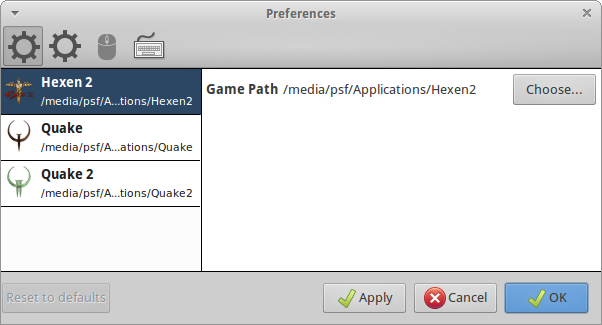
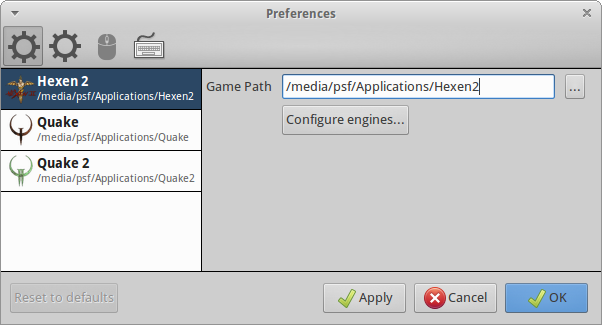
Add documentation for compiling and launching.

diff --git a/app/resources/documentation/help/shortcuts.js b/app/resources/documentation/help/shortcuts.js
@@ -584,7 +584,8 @@ menu["Menu/File/New"] = { path: ["File", "New"], shortcut: { key:78, modifiers: 
 menu["Menu/File/Open..."] = { path: ["File", "Open..."], shortcut: { key:79, modifiers: [308] } };
 menu["Menu/File/Save"] = { path: ["File", "Save"], shortcut: { key:83, modifiers: [308] } };
 menu["Menu/File/Save as..."] = { path: ["File", "Save as..."], shortcut: { key:83, modifiers: [306, 308] } };
-menu["Menu/File/Load Point File"] = { path: ["File", "Load Point File"], shortcut: { key:0, modifiers: [] } };
+menu["Menu/File/Export/Wavefront OBJ..."] = { path: ["File", "Export", "Wavefront OBJ..."], shortcut: { key:0, modifiers: [] } };
+menu["Menu/File/Load Point File..."] = { path: ["File", "Load Point File..."], shortcut: { key:0, modifiers: [] } };
 menu["Menu/File/Unload Point File"] = { path: ["File", "Unload Point File"], shortcut: { key:0, modifiers: [] } };
 menu["Menu/File/Close"] = { path: ["File", "Close"], shortcut: { key:87, modifiers: [308] } };
 menu["Menu/File/About TrenchBroom"] = { path: ["File", "About TrenchBroom"], shortcut: { key:0, modifiers: [] } };
@@ -616,7 +617,8 @@ menu["Menu/Edit/Tools/Vertex Tool"] = { path: ["Edit", "Tools", "Vertex Tool"], 
 menu["Menu/Edit/CSG/Convex Merge"] = { path: ["Edit", "CSG", "Convex Merge"], shortcut: { key:43, modifiers: [308] } };
 menu["Menu/Edit/CSG/Subtract"] = { path: ["Edit", "CSG", "Subtract"], shortcut: { key:45, modifiers: [308] } };
 menu["Menu/Edit/CSG/Intersect"] = { path: ["Edit", "CSG", "Intersect"], shortcut: { key:35, modifiers: [308] } };
-menu["Menu/Edit/Snap Vertices"] = { path: ["Edit", "Snap Vertices"], shortcut: { key:86, modifiers: [306, 308] } };
+menu["Menu/Edit/Snap Vertices to Integer"] = { path: ["Edit", "Snap Vertices to Integer"], shortcut: { key:86, modifiers: [306, 308] } };
+menu["Menu/Edit/Snap Vertices to Grid"] = { path: ["Edit", "Snap Vertices to Grid"], shortcut: { key:86, modifiers: [307, 306, 308] } };
 menu["Menu/Edit/Texture Lock"] = { path: ["Edit", "Texture Lock"], shortcut: { key:0, modifiers: [] } };
 menu["Menu/Edit/Replace Texture..."] = { path: ["Edit", "Replace Texture..."], shortcut: { key:0, modifiers: [] } };
 menu["Menu/View/Grid/Show Grid"] = { path: ["View", "Grid", "Show Grid"], shortcut: { key:48, modifiers: [] } };
@@ -645,9 +647,12 @@ menu["Menu/View/Switch to Face Inspector"] = { path: ["View", "Switch to Face In
 menu["Menu/View/Toggle Info Panel"] = { path: ["View", "Toggle Info Panel"], shortcut: { key:52, modifiers: [308] } };
 menu["Menu/View/Toggle Inspector"] = { path: ["View", "Toggle Inspector"], shortcut: { key:53, modifiers: [308] } };
 menu["Menu/View/Maximize Current View"] = { path: ["View", "Maximize Current View"], shortcut: { key:32, modifiers: [308] } };
+menu["Menu/Run/Compile..."] = { path: ["Run", "Compile..."], shortcut: { key:0, modifiers: [] } };
+menu["Menu/Run/Launch..."] = { path: ["Run", "Launch..."], shortcut: { key:0, modifiers: [] } };
 menu["Menu/Debug/Print Vertices"] = { path: ["Debug", "Print Vertices"], shortcut: { key:0, modifiers: [] } };
 menu["Menu/Debug/Create Brush..."] = { path: ["Debug", "Create Brush..."], shortcut: { key:0, modifiers: [] } };
 menu["Menu/Debug/Copy Javascript Shortcut Map"] = { path: ["Debug", "Copy Javascript Shortcut Map"], shortcut: { key:0, modifiers: [] } };
+menu["Menu/Debug/Crash..."] = { path: ["Debug", "Crash..."], shortcut: { key:0, modifiers: [] } };
 menu["Menu/Help/TrenchBroom Help"] = { path: ["Help", "TrenchBroom Help"], shortcut: { key:0, modifiers: [] } };
 var actions = {};
 actions["Controls/Map view/Create brush"] = { key:13, modifiers: [] };
@@ -667,10 +672,6 @@ actions["Controls/Map view/Move rotation center right"] = { key:316, modifiers: 
 actions["Controls/Map view/Move rotation center forward; Move rotation center up"] = { key:366, modifiers: [] };
 actions["Controls/Map view/Move rotation center backward; Move rotation center down"] = { key:367, modifiers: [] };
 actions["Controls/Map view/Toggle fly mode"] = { key:70, modifiers: [] };
-actions["Controls/Map view/Toggle movement axis"] = { key:60, modifiers: [] };
-actions["Controls/Map view/Set movement axis X"] = { key:88, modifiers: [] };
-actions["Controls/Map view/Set movement axis Y"] = { key:89, modifiers: [] };
-actions["Controls/Map view/Set movement axis Z"] = { key:90, modifiers: [] };
 actions["Controls/Map view/Move objects up; Move objects forward"] = { key:315, modifiers: [] };
 actions["Controls/Map view/Move objects down; Move objects backward"] = { key:317, modifiers: [] };
 actions["Controls/Map view/Move objects left"] = { key:314, modifiers: [] };

diff --git a/app/resources/documentation/help/default.css b/app/resources/documentation/help/default.css
@@ -77,6 +77,22 @@ div.figure p {
 	padding-top: 8px;
 }
 
+div#CONTENT dl {
+}
+
+div#CONTENT dl dt {
+	font-weight: bold;
+}
+
+div#CONTENT dd {
+	margin-bottom: 10px;
+}
+
+div#CONTENT dd > p {
+	margin-top: 0px;
+	padding-top: 0px;
+}
+
 div#CONTENT table {
 	border-collapse: collapse;
 }

diff --git a/common/src/View/LaunchGameEngineDialog.cpp b/common/src/View/LaunchGameEngineDialog.cpp
@@ -62,7 +62,7 @@ namespace TrenchBroom {
             const Model::GameConfig& gameConfig = gameFactory.gameConfig(gameName);
             const Model::GameEngineConfig& gameEngineConfig = gameConfig.gameEngineConfig();
             m_gameEngineList = new GameEngineProfileListBox(midPanel, gameEngineConfig);
-            m_gameEngineList->SetEmptyText("Click the 'Edit engines...' button to create a game engine profile.");
+            m_gameEngineList->SetEmptyText("Click the 'Configure engines...' button to create a game engine profile.");
             
             wxStaticText* header = new wxStaticText(midPanel, wxID_ANY, "Launch Engine");
             header->SetFont(header->GetFont().Larger().Larger().Bold());
@@ -70,7 +70,7 @@ namespace TrenchBroom {
             wxStaticText* message = new wxStaticText(midPanel, wxID_ANY, "Select a game engine from the list on the right and edit the commandline parameters in the text box below. You can use variables to refer to the map name and other values. Commandline parameters are stored in a worldspawn property, so the map document will be marked as modified if you change the parameters here.");
             message->Wrap(350);
             
-            wxButton* openPreferencesButton = new wxButton(midPanel, wxID_ANY, "Edit engines...");
+            wxButton* openPreferencesButton = new wxButton(midPanel, wxID_ANY, "Configure engines...");
             openPreferencesButton->Bind(wxEVT_BUTTON, &LaunchGameEngineDialog::OnEditGameEnginesButton, this);
             
             wxStaticText* parameterLabel = new wxStaticText(midPanel, wxID_ANY, "Parameters");

diff --git a/app/resources/documentation/help/index.md b/app/resources/documentation/help/index.md
@@ -880,9 +880,15 @@ The preferences dialog allows you to set the game configurations, to change the 
 
 ## Game Configuration {#game_configuration}
 
-![Layer Configuration Dialog (Linux XFCE)](GamePreferences.png)
+![Game Configuration Dialog (Linux XFCE)](GamePreferences.png)
 
-The game configuration preference pane is where you set up the paths to the games that TrenchBroom supports. For each game, you can set the game path by clicking on the "Choose..." button and selecting the folder in which the game is stored on your hard drive.
+The game configuration preference pane is where you set up the paths to the games that TrenchBroom supports. For each game, you can set the game path by clicking on the "..." button and selecting the folder in which the game is stored on your hard drive. Alternatively, you can enter a path manually in the text box, but you have to hit #key(13) to apply the change.
+
+Additionally, you can configure the game engines for the selected game by clicking on the 'Configure engines...' button.
+
+![Game Engine Configuration Dialog (Mac OS X)](GameEngineDialog.png)
+
+In this dialog, you can add a game engine profile by clicking on the '+' button below the profile list on the left, and you can delete the selected profile by clicking on the '-' button. To the right of the list, you can edit the details of the selected game engine profile, specifically its name and path. Similar to the game path, if you edit the engine path manually, you have to apply the changes by pressing #key(13) while in the path text box. Click [here](#launching_game_engines) to find out how to launch game engines from within TrenchBroom.
 
 ## View Layout and Rendering {#view_layout_and_rendering}
 
@@ -954,6 +960,94 @@ Every entry in the issue list provides you with to pieces of information: the li
 ![Issue Browser with Context Menu](IssueBrowserContextMenu.png)
 
 In addition to making you aware of issues, TrenchBroom can also fix them for you. To fix an issue, right click it and choose the appropriate fix from the "Fix" context menu. If you wish to ignore a particular issue, you can also tell TrenchBroom to hide it by choosing "Hide" in the context menu. If you wish to see all hidden issues, you can check the respective checkbox above the issue list. To make a hidden issue visible again, first show all hidden issues, then right click the issue and choose "Show" from the context menu.
+
+## Compiling Maps {#compiling_maps}
+
+TrenchBroom supports compiling your maps from inside the editor. This means that you can create compilation profiles and configure those profiles to run external compilation tools for you. Note however that TrenchBroom does not come with prepackaged compilation tools - you'll have to download and install those yourself. The following screenshot shows the compilation dialog that comes up when choosing #menu('Menu/Run/Compile...').
+
+![Compilation Dialog (Windows 7)](CompilationDialog.png)
+
+This dialog allows you to create compilation profiles, which are listed on the left of the dialog. Each compilation profile has a name, a working directory, and a list of tasks. Click the '+' button below the profile list to create a new compilation profile, or click the '-' button to delete the selected profile. If you select a profile, you can edit its name, working directory, and tasks on the right side of the dialog.
+
+Name
+:	The name of this compilation profile. Need not be unique and can even be empty.
+
+Working directory
+:   A working directory for the compilation profile. This is optional, but very useful because it can be referred to as a variable when specifying the parameters of each task (see below). Variables are allowed (see below).
+
+Tasks
+:   A list of tasks which are executed sequentially when the compilation profile is run.
+
+There are three types of tasks, each with different parameters:
+
+Export Map
+:	Exports the map to a file. This file should be different from the actual file where the map is stored.
+
+    Parameter 	Description
+    ---------   -----------
+    Target 		The path of the exported file. Variables are allowed.
+
+Run Tool
+:	Runs an external tool and captures its output.
+
+    Parameter 	Description
+    ---------   -----------
+    Tool 		The absolute path to the executable of the tool that should be run. The working directory is set to the profile's working directory if configured. Variables are allowed.
+    Parameters 	The parameters that should be passed to the tool when it is executed. Variables are allowed.
+
+Copy Files
+:	Copies one or more files.
+
+    Parameter 	Description
+    ---------   -----------
+    Source 		The file(s) to copy. To specify more than one file, you can use wildcards (*,?) in the filename. Variables are allowed.
+    Target  	The directory to copy the files to. The directory is recursively created if it does not exist. Existing files are overwritten without prompt. Variables are allowed.
+
+
+You can use some variables when specifying the working directory of a profile and also for the task parameters. The following table lists the variables, their scopes, and their meaning. A scope of 'Tool' indicates that the variable is available when specifying tool parameters. A scope of 'Workdir' indicates that the variable is only available when specifying the working directory. Note that TrenchBroom helps you to enter variables by popping up an autocompletion list as soon as you type '$'. You can also request the autocompletion list by pressing #key(396)+#key(32).
+
+Variable 		Scope 			Description
+-------- 	    ----- 			-----------
+`WORK_DIR_PATH`	Tool 			The full path to the working directory.
+`MAP_DIR_PATH` 	Tool, Workdir 	The full path to the directory where the currently edited map is stored.
+`MAP_BASE_NAME`	Tool, Workdir 	The base name (without extension) of the currently edited map.
+`MAP_FULL_NAME`	Tool, Workdir 	The full name (with extension) of the currently edited map.
+`GAME_DIR_PATH`	Tool, Workdir 	The full path to the current game as specified in the game preferences.
+`MOD_DIR_PATH` 	Tool, Workdir 	The full path to the (last) mod sub directory if mods have been enabled for this map.
+`MOD_NAME` 		Tool, Workdir 	The name of the (last) mod if mods have been enabled for this map
+`APP_DIR_PATH` 	Tool, Workdir 	The full path to the directory containing the TrenchBroom application binary.
+`CPU_COUNT` 	Tool 			The number of CPUs in the current machine.
+
+It is recommended to use the following general process for compiling maps and to adapt it to your specified needs:
+
+1. Set the working directory to `${MAP_DIR_PATH}/compile`.
+2. Add an *Export Map* task and set its target to `${WORK_DIR_PATH}/${MAP_FULL_NAME}`.
+3. Add *Run Tool* tasks for the compilation tools that you wish to run. Use the expressions `${MAP_FULL_NAME}` and `${MAP_BASE_NAME}.bsp` to specify the input and output files for the tools. Since you have set a working directory, you don't need to specify absolute paths here.
+4. Finally, add a *Copy Files* task and set its source to `${WORK_DIR_PATH}/${MAP_BASE_NAME}.bsp` and its target to `${MOD_DIR_PATH}/maps`.
+
+The last step will copy the bsp file to the appropriate directory within the game path. Note that this example assumes that a mod has been enabled. If no mod has been enabled, you have to specify a differen path, e.g. `${GAME_DIR_PATH}/id1/maps` for Quake. You can add more *Copy Files* tasks if the compilation produces more than just a bsp file (e.g. lightmap files).
+
+To run a compilation profile, click the 'Run' button in the compilation dialog. Note that the 'Run' button changes into a 'Stop' button. If you click on this button, TrenchBroom will terminate the currently running tool. A running compilation will also be terminated if you close the compilation dialog or if you close the main window, but TrenchBroom will ask you before this happens. Note that the compilation tools are run in the background. You can keep working on your map if you wish.
+
+Once the compilation is done, you can launch a game engine and check out your map in the game. The following section explains how you can configure game engines and launch them from within the editor.
+
+## Launching Game Engines {#launching_game_engines}
+
+Before you can launch a game engine in TrenchBroom, you have to make your engine(s) known to TrenchBroom. You can do this by bringing up the game engine profile dialog either from the launch dialog (see below) or from the [game configuration]({#game_configuration).
+
+There are two ways to launch a game engine from within TrenchBroom. Either click the 'Launch' button in the compilation dialog or choose #menu('Menu/Run/Run...'). This brings up the launch dialog shown in the following screenshot.
+
+![Launch Dialog (Mac OS X)](LaunchGameEngineDialog.png)
+
+In this dialog, you can select the game engine of choice, edit its parameters, and launch the engine. To select an engine, click on it in the list on the right hand side of the dialog. If you wish to edit the list of engines, you can bring up the game engine profile dialog by clicking on the 'Configure engines...' button. You can then edit its parameters in the text box at the bottom of the left hand side of the dialog. Note that you can use the following variables in this text box:
+
+Variable 		Description
+-------- 	    -----------
+`MAP_BASE_NAME`	The base name (without extension) of the currently edited map.
+`GAME_DIR_PATH`	The full path to the current game as specified in the game preferences.
+`MOD_NAME` 		The name of the (last) mod if mods have been enabled for this map
+
+Note that the parameters are stored in the map file for each engine. To be precise, they are stored in a worldspawn property, so when you change them, the map document will be marked as modified and you'll have to save it to keep the changes to the engine parameters. The advantage is that you can have different parameters in different maps (and for different engines).
 
 ## Solving Problems
 
